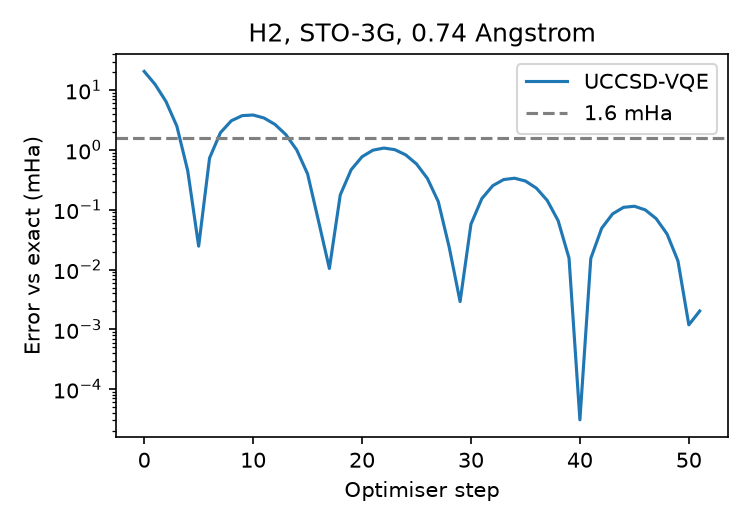
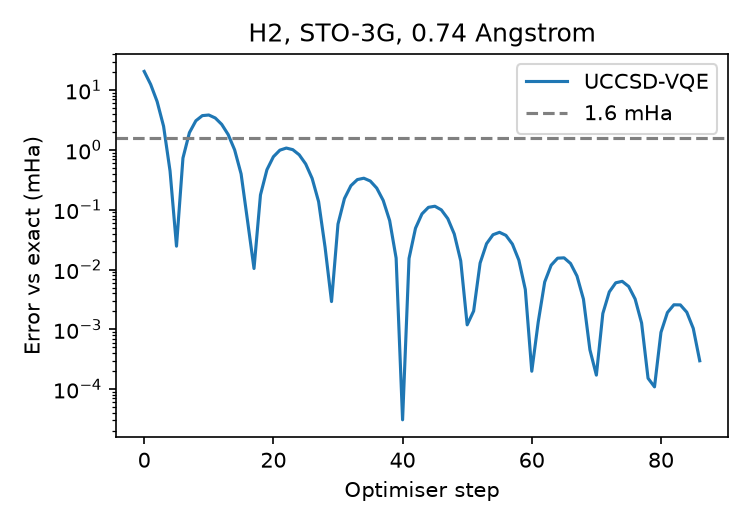
Use PATIENCE = 5 for H2 UCCSD-VQE and regenerate results
Stopping at the first step below the tolerance left up to 0.77 mHa of
optimiser error (1.1 Angstrom). With 5 consecutive steps the largest
error along the dissociation curve is 0.0099 mHa.

diff --git a/VQE_Molecules/code/step02_h2_vqe.py b/VQE_Molecules/code/step02_h2_vqe.py
@@ -31,8 +31,8 @@ FIGURES = ROOT / "figures"
 STEP_SIZE = 0.05
 MAX_STEPS = 300
 CONV_TOL = 1e-6
-# Consecutive steps below CONV_TOL needed to stop. 1 reproduces the 2026-10-08 run.
-PATIENCE = 1
+# Consecutive steps below CONV_TOL needed to stop. 1 stops too early at some bond lengths (0.77 mHa at 1.1 Angstrom).
+PATIENCE = 5
 
 
 def run_uccsd(hamiltonian, n_qubits, n_electrons):

diff --git a/VQE_Molecules/README.md b/VQE_Molecules/README.md
@@ -24,7 +24,7 @@ Only H2 has results so far. Questions 1 to 3 are not answered yet: H2 is too sma
 
 - Hamiltonian: `qml.qchem`, STO-3G basis, Jordan–Wigner mapping.
 - Reference energies: the Hartree–Fock energy is the diagonal element of the Hamiltonian at the HF basis state. The exact energy is the lowest eigenvalue of the Hamiltonian restricted to basis states with the correct number of electrons, which equals the FCI energy in the same basis.
-- VQE: UCCSD starting from the HF state (all parameters zero), `lightning.qubit` with adjoint differentiation, Adam with step size 0.05, at most 300 steps, stopping when the energy changes by less than 1e-6 Ha.
+- VQE: UCCSD starting from the HF state (all parameters zero), `lightning.qubit` with adjoint differentiation, Adam with step size 0.05, at most 300 steps, stopping after 5 consecutive steps that each change the energy by less than 1e-6 Ha.
 - Errors are reported against the exact energy, with chemical accuracy taken as 1.6 mHa.
 
 ## Results for H2
@@ -39,15 +39,15 @@ At 0.74 Å ([results/step01_output.txt](results/step01_output.txt)):
 | Exact energy | −1.137284 Ha |
 | Correlation energy | −20.525 mHa |
 
-UCCSD has 3 parameters here (2 singles, 1 double). At 0.74 Å it reached −1.137282 Ha in 51 steps, an error of 0.002 mHa.
+UCCSD has 3 parameters here (2 singles, 1 double). At 0.74 Å it reached −1.137284 Ha in 86 steps, an error of 0.0003 mHa.
 
 ![Convergence at 0.74 Å](figures/h2_convergence.png)
 
-Along the dissociation curve, 22 bond lengths from 0.4 to 2.5 Å ([results/h2_dissociation.csv](results/h2_dissociation.csv)): all 22 are within chemical accuracy. The largest error is 0.77 mHa at 1.1 Å, where the optimiser stopped after 34 steps; 17 of the 22 points are below 0.1 mHa.
+Along the dissociation curve, 22 bond lengths from 0.4 to 2.5 Å ([results/h2_dissociation.csv](results/h2_dissociation.csv)): all 22 are within chemical accuracy. The largest error is 0.0099 mHa at 2.1 Å, and the optimiser took between 81 and 106 steps.
 
 ![H2 dissociation curve](figures/h2_dissociation.png)
 
-A single `DoubleExcitation` gate on the HF state already gives the exact energy at 0.74 Å (θ = 0.2256, [results/step02b_output.txt](results/step02b_output.txt)), because the ground state is a superposition of |1100⟩ and |0011⟩ only. The errors above therefore come from the optimiser, not from the ansatz. The stored results use `PATIENCE = 1` in `step02_h2_vqe.py`, which stops at the first step below the tolerance.
+A single `DoubleExcitation` gate on the HF state already gives the exact energy at 0.74 Å (θ = 0.2256, [results/step02b_output.txt](results/step02b_output.txt)), because the ground state is a superposition of |1100⟩ and |0011⟩ only. The errors above therefore come from the optimiser, not from the ansatz. The stopping rule shows this directly: with `PATIENCE = 1` in `step02_h2_vqe.py`, which stops at the first step below the tolerance, the largest error was 0.77 mHa at 1.1 Å after 34 steps and 5 of the 22 points were above 0.1 mHa. The stored results use `PATIENCE = 5`.
 
 ## Reproduce
 
@@ -66,4 +66,5 @@ python VQE_Molecules/code/step02b_note_checks.py
 - Noiseless statevector simulation: no shot noise, no device noise.
 - STO-3G is a minimal basis. "Exact" means exact within this basis, not the energy of the real molecule.
 - Each number comes from a single run.
+- The VQE energies and step counts are not identical across machines. A rerun on a Linux cluster gave the same HF and exact energies but a largest error of 0.052 mHa at 2.3 Å, with 81 to 110 steps.
 - H2 in this basis is solved exactly by UCCSD, so these results check the pipeline and say nothing yet about how the ansätze compare.
